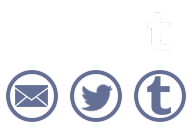
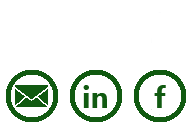
- social links fixes

diff --git a/projectpages/darkmoon/darkmoon.html b/projectpages/darkmoon/darkmoon.html
@@ -34,10 +34,10 @@
                 </p>
             </div>
         </div>
-        <div class="social">
-            <a class="twitter" href="https://twitter.com/noelfb"></a>
-            <a class="tumblr" href="https://noelfb.tumblr.com"></a>
-            <a class="email" href="mailto:thenberry@gmail.com"></a>
+        <div class="social">			
+            <a class="twitter" href="https://www.linkedin.com/in/noah-petrides/"></a>
+			<a class="tumblr" href="https://facebook.com/noah.petrides"></a>
+			<a class="email" href="mailto:nopetrides@gmail.com"></a>
         </div>
     </div>
 
@@ -55,8 +55,8 @@
                 <h1 id="links">Lionheart: Dark Moon</h1>
                 <p>I was a C# programmer using Unity for this game. My primary duties were UI development and client side feature work. I implemented quick loot, events, localization, social linking, and more! Published on Game Center for iOS and Google Play for Android Devices.</p>
                 <div class="links">
-                        <a href="https://apps.apple.com/ca/app/g-i-joe-war-on-cobra-pvp/id1471554366"><img src="../../images/appstore.png" alt="AppStore Link"/></a>
-                        <a href="https://play.google.com/store/apps/details?id=com.d3go.gijoewaroncobra&hl=en_US"><img src="../../images/gplay.png" alt=" Google Play Link"/></a>
+                        <a href="https://apps.apple.com/ca/app/lionheart-dark-moon-rpg/id997490707"><img src="../../images/appstore.png" alt="AppStore Link"/></a>
+                        <a href="https://play.google.com/store/apps/details?id=ca.emeraldcitygames.erpg&hl=en_CA"><img src="../../images/gplay.png" alt="Google Play Link"/></a>
 					</div>
                 <div class="list">
                     <div class="back">

diff --git a/projectpages/gijoe/gijoe.html b/projectpages/gijoe/gijoe.html
@@ -35,9 +35,9 @@
             </div>
         </div>
         <div class="social">
-            <a class="twitter" href="https://twitter.com/noelfb"></a>
-            <a class="tumblr" href="https://noelfb.tumblr.com"></a>
-            <a class="email" href="mailto:thenberry@gmail.com"></a>
+			<a class="twitter" href="https://www.linkedin.com/in/noah-petrides/"></a>
+			<a class="tumblr" href="https://facebook.com/noah.petrides"></a>
+			<a class="email" href="mailto:nopetrides@gmail.com"></a>
         </div>
     </div>
 

diff --git a/projectpages/darkmoon/style.css b/projectpages/darkmoon/style.css
@@ -40,7 +40,7 @@ div {
 
 .banner {
     position: fixed;
-    background: #000 url("../../images/Noah.png") center center;
+    background: #000 url("../../images/noahbg.jpg") center center;
     background-size: cover;
     width: 45%;
     height: 100%;
@@ -107,7 +107,7 @@ div {
     width: 64px;
     height: 64px;
     float: left;
-    background: url('../img/social.png') no-repeat;
+    background: url('../../images/social.png') no-repeat;
 }
 
 .banner .social .twitter {

diff --git a/projectpages/gijoe/style.css b/projectpages/gijoe/style.css
@@ -40,7 +40,7 @@ div {
 
 .banner {
     position: fixed;
-    background: #000 url("../../images/Noah.png") center center;
+    background: #000 url("../../images/noahbg.jpg") center center;
     background-size: cover;
     width: 45%;
     height: 100%;
@@ -107,7 +107,7 @@ div {
     width: 64px;
     height: 64px;
     float: left;
-    background: url('../img/social.png') no-repeat;
+    background: url('../../images/social.png') no-repeat;
 }
 
 .banner .social .twitter {

diff --git a/index.html b/index.html
@@ -34,8 +34,7 @@
 			</div>
 		</div>
 		<div class="social">
-			<!--Replace with Facebook & -->
-			<a class="twitter" href="https://twitter.com/nopetrides"></a>
+			<a class="twitter" href="https://www.linkedin.com/in/noah-petrides/"></a>
 			<a class="tumblr" href="https://facebook.com/noah.petrides"></a>
 			<a class="email" href="mailto:nopetrides@gmail.com"></a>
 		</div>

diff --git a/style.css b/style.css
@@ -24,6 +24,10 @@ h2 {
 
 p {
     color: white;
+    padding-right: 60px;
+    padding-bottom: 0px;
+    padding-left: 60px;
+    line-height: 1.5em;
 }
 
 div {
